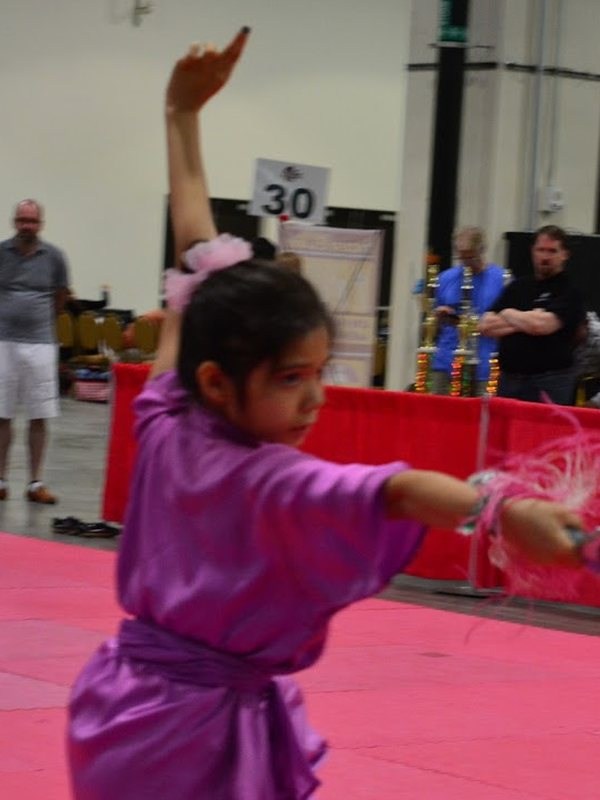
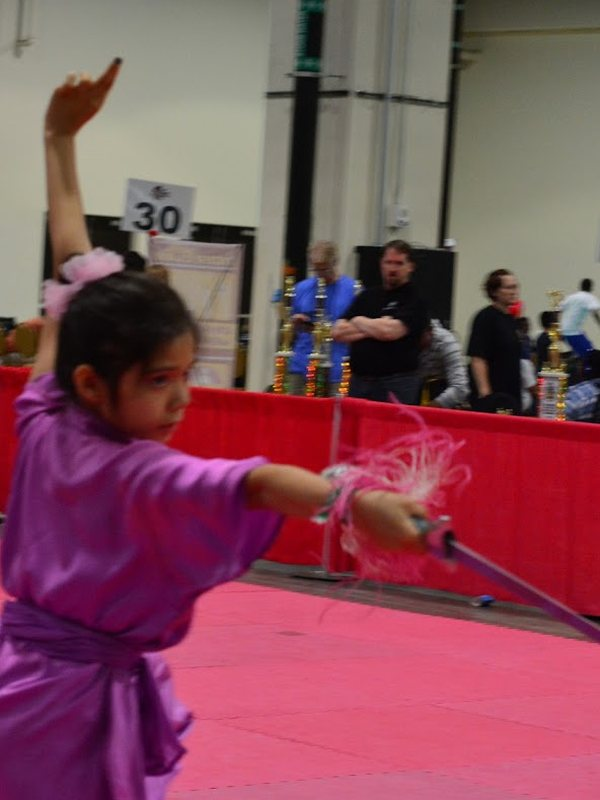
Show more of Petrina's sword, and hide a photo behind the word vision
Her formal crop now carries the blade down the frame. Clicking vision
in her bio opens a photo of her and Preston as kids in the gallery
viewer, the way beans works on Preston's card. A member gets one
through a secret block in members-extra.json.

Also makes the hidden attribute win site-wide: img and the viewer's
arrows set their own display, which was leaving hidden things on screen.

diff --git a/script.js b/script.js
@@ -397,6 +397,30 @@
 })();
 
 /* ==========================================================================
+   A photo hidden behind a word (About page)
+   Someone's bio can turn one word into a quiet trigger, the way "beans"
+   works on Preston's card: clicking it opens a photo full-size in the same
+   viewer the galleries use. The word is a real button, so a keyboard reaches
+   it too, and it is styled to read as ordinary text so finding it is the
+   point. With JavaScript off it is just a word, and the photo stays hidden.
+   ========================================================================== */
+
+(function () {
+  "use strict";
+
+  document.addEventListener("click", function (event) {
+    var word = event.target.closest && event.target.closest(".secret-trigger");
+    if (!word) return;
+    var card = word.closest("li, article");
+    var photo = card && card.querySelector(".secret-photo");
+    // The viewer is listening for clicks on photos, so handing it one is all
+    // this has to do.
+    if (photo) photo.click();
+  });
+})();
+
+
+/* ==========================================================================
    Cards with two photos (About page: members, and officers who have one)
    Hovering swaps the first photo for the second in CSS alone. Phones have
    no hover, so tapping the photo (or pressing Enter or Space on it) flips it
@@ -645,11 +669,13 @@
     return node;
   }
 
-  var PHOTO = ".carousel__slide img, .officer:not([data-birthday]) .officer__photo";
+  var PHOTO = ".carousel__slide img, .officer:not([data-birthday]) .officer__photo, .secret-photo";
 
   // Every photo that opens the lightbox. Officer photos on the About page
-  // form one group; each carousel is its own group.
+  // form one group; each carousel is its own group; a secret photo is shown
+  // on its own, with no arrows to anywhere else.
   function groupFor(img) {
+    if (img.classList.contains("secret-photo")) return [img];
     var track = img.closest(".carousel__track");
     if (track) return Array.prototype.slice.call(track.querySelectorAll(".carousel__slide img"));
     return Array.prototype.slice.call(document.querySelectorAll(".officer:not([data-birthday]) .officer__photo"));
@@ -729,7 +755,14 @@
           var slide = current.closest(".carousel__slide");
           if (slide) slide.scrollIntoView({ inline: "center", block: "nearest", behavior: "instant" });
         }
-        current.focus({ preventScroll: true });
+        // A secret photo is hidden and cannot hold focus, so it goes back to
+        // the word in the bio that opened it.
+        var back = current;
+        if (current.classList.contains("secret-photo")) {
+          var card = current.closest("li, article");
+          back = (card && card.querySelector(".secret-trigger")) || document.body;
+        }
+        back.focus({ preventScroll: true });
       }
       image.removeAttribute("src");
       group = [];
@@ -756,6 +789,10 @@
 
     prev.disabled = i === 0;
     next.disabled = i === group.length - 1;
+    // A photo shown on its own has nowhere to page to.
+    var alone = group.length < 2;
+    prev.hidden = alone;
+    next.hidden = alone;
 
     // Fetch the neighbours so the next turn shows no gap.
     [i - 1, i + 1].forEach(function (n) {
@@ -780,6 +817,7 @@
 
     // Photos become real controls: focusable, and Enter / Space opens them.
     Array.prototype.forEach.call(document.querySelectorAll(PHOTO), function (img) {
+      if (img.classList.contains("secret-photo")) return; // reached by its word
       img.setAttribute("tabindex", "0");
       img.setAttribute("role", "button");
       img.setAttribute("aria-haspopup", "dialog");

diff --git a/styles.css b/styles.css
@@ -77,6 +77,11 @@ a:hover { color: var(--cardinal-dark); text-decoration: underline; }
 
 img { max-width: 100%; display: block; }
 
+/* The hidden attribute must win over any display rule below, or an element
+   that sets its own display (every img, the lightbox arrows) stays on screen
+   when the HTML says it is hidden. */
+[hidden] { display: none !important; }
+
 /* Visible keyboard focus everywhere — important for accessibility. */
 a:focus-visible,
 button:focus-visible {
@@ -464,7 +469,8 @@ a.nav__join:hover { background: var(--cardinal-dark); color: var(--white); }
 /* "beans" has to read as plain body text — no underline, no pointer cursor —
    or it stops being a secret. It stays a real <button> so a keyboard can still
    reach it, and only then does it show a focus ring. */
-.bean-trigger {
+.bean-trigger,
+.secret-trigger {
   font: inherit;
   color: inherit;
   background: none;
@@ -486,7 +492,8 @@ a.nav__join:hover { background: var(--cardinal-dark); color: var(--white); }
      a dead giveaway. */
   -webkit-tap-highlight-color: transparent;
 }
-.bean-trigger:focus-visible {
+.bean-trigger:focus-visible,
+.secret-trigger:focus-visible {
   outline: 2px solid var(--cardinal);
   outline-offset: 2px;
   border-radius: 2px;
@@ -1984,7 +1991,8 @@ html[data-page="home"] main > .hero + .section .card:hover {
   font-style: italic;
   font-size: 1.3rem;
 }
-.bean-trigger:focus-visible { outline-color: var(--seal); }
+.bean-trigger:focus-visible,
+.secret-trigger:focus-visible { outline-color: var(--seal); }
 
 /* --- Members: the same cards as the officers, under them ---
    Each <li> carries the officer classes too, so size, paper, type and

diff --git a/about.html b/about.html
@@ -269,7 +269,9 @@
             <h3>Petrina Steimel</h3>
             <p><strong>Member since 2024</strong></p>
             <p class="card__meta">Junior · BXA</p>
-            <p>i have a vision</p>
+            <p>i have a <button class="secret-trigger" type="button">vision</button></p>
+            <img class="secret-photo" src="images/members/petrina-steimel-secret.jpg"
+                 alt="Petrina and Preston as children at a wushu competition, in the same green and purple uniforms" loading="lazy" hidden>
           </li>
           <li class="card officer member">
             <button class="photo-swap" type="button" aria-pressed="false"

diff --git a/scripts/build_members.py b/scripts/build_members.py
@@ -37,6 +37,11 @@ formal photo is their "Photo 1" and the informal one their "Photo 2"; someone
 with one upload just gets the one photo, and someone with none gets a red
 seal with their initials.
 
+A member can also hide a photo behind one word of their bio, the way the
+word "beans" works on Preston's officer card: give them a "secret" block in
+members-extra.json with the word, the photo's file name in
+images/members/originals/, and its description.
+
 To swap the two, or frame either one differently, add the person to
 data/member-photos.json, keyed by the Full name they typed in the form:
 
@@ -251,6 +256,29 @@ def make_portrait(src, dst, focus=None, zoom=1.0):
             os.remove(tmp)
 
 
+def make_web(src, dst, max_side=1200):
+    """A photo kept whole, only made small enough for the web. Used for the
+    secret photo behind a word in someone's bio, which is shown full-size in
+    the viewer rather than cropped to a card."""
+    tmp = None
+    if os.path.splitext(src)[1].lower() in (".heic", ".heif"):
+        tmp = dst + ".tmp.jpg"
+        if not heic_to_jpeg(src, tmp):
+            return False
+        src = tmp
+    try:
+        im = ImageOps.exif_transpose(Image.open(src)).convert("RGB")
+        im.thumbnail((max_side, max_side), Image.LANCZOS)
+        im.save(dst, "JPEG", quality=84, optimize=True, progressive=True)
+        return True
+    except Exception as e:
+        print(f"   could not read {os.path.basename(src)}: {e}")
+        return False
+    finally:
+        if tmp and os.path.exists(tmp):
+            os.remove(tmp)
+
+
 def officer_names(page):
     """Names on the officer cards, so officers aren't listed twice."""
     head = page[:page.index(START)] if START in page else page
@@ -259,6 +287,25 @@ def officer_names(page):
 
 def esc(s):
     return html.escape((s or "").strip(), quote=True)
+
+
+def bio_html(person):
+    """Their bio, escaped, with the secret word (if they have one) turned into
+    a button. The button is styled to read as ordinary text, so the only way
+    to find it is to click the word."""
+    bio = esc(person["bio"])
+    secret = person.get("secret") or {}
+    word = (secret.get("word") or "").strip()
+    if not word or not secret.get("file"):
+        return bio
+    pattern = re.compile(r"\b(" + re.escape(esc(word)) + r")\b", re.I)
+    swapped, hits = pattern.subn(
+        '<button class="secret-trigger" type="button">\\1</button>', bio, count=1)
+    if not hits:
+        print(f"   {person['name']}: \"{word}\" is not in their bio, so nothing is hidden there")
+        return bio
+    secret["found"] = True
+    return swapped
 
 
 def card(person):
@@ -288,7 +335,11 @@ def card(person):
     if person.get("meta"):
         out.append(f'            <p class="card__meta">{esc(person["meta"])}</p>')
     if person.get("bio"):
-        out.append(f'            <p>{esc(person["bio"])}</p>')
+        out.append(f'            <p>{bio_html(person)}</p>')
+        secret = person.get("secret")
+        if secret and secret.get("file") and secret.get("found"):
+            out.append(f'            <img class="secret-photo" src="images/members/{secret["file"]}"')
+            out.append(f'                 alt="{esc(secret.get("alt", ""))}" loading="lazy" hidden>')
     if person.get("insta"):
         handle = esc(person["insta"].lstrip("@"))
         out.append(f'            <p class="member__insta"><a href="https://www.instagram.com/{handle}/" target="_blank" rel="noopener">@{handle}</a></p>')
@@ -376,6 +427,17 @@ def main():
             "bio": (entry.get("bio") or "").strip(),
             "insta": (entry.get("insta") or "").strip(),
         }
+        secret = entry.get("secret") or {}
+        if secret.get("word") and secret.get("photo"):
+            src = os.path.join(ORIGINALS, secret["photo"])
+            if os.path.exists(src):
+                dst = os.path.join(OUT, f"{slug(name)}-secret.jpg")
+                if make_web(src, dst):
+                    person["secret"] = {"word": secret["word"],
+                                        "alt": secret.get("alt", ""),
+                                        "file": os.path.basename(dst)}
+            else:
+                print(f"   {full}: no secret photo at images/members/originals/{secret['photo']}")
         frame = framing.get(full.lower(), {})
         for kind, filename in (entry.get("photos") or {}).items():
             if kind not in ("formal", "informal") or not filename:

diff --git a/README.md b/README.md
@@ -537,6 +537,22 @@ here if they've said yes to being on a public website** — there's no consent b
 so you're vouching for them. If they later fill the form in, their own answers win and you
 can delete them from this file.
 
+**Hiding a photo behind a word.** A member's bio can have one word that opens a photo when
+you click it, the way "beans" works on Preston's officer card. Add a `secret` block to their
+entry in `data/members-extra.json`:
+
+```json
+"secret": {
+  "word": "vision",
+  "photo": "petrina-preston.png",
+  "alt": "Petrina and Preston as children at a wushu competition"
+}
+```
+
+The word must appear in their bio, and the photo goes in `images/members/originals/`. The
+word is styled to look like ordinary text, so finding it is the point; the `alt` is the
+caption shown under the photo.
+
 **To remove someone:** delete their row from `data/members.csv`, or their entry from
 `data/members-extra.json`, run the script again, and push. Do this the same day someone asks.
 
